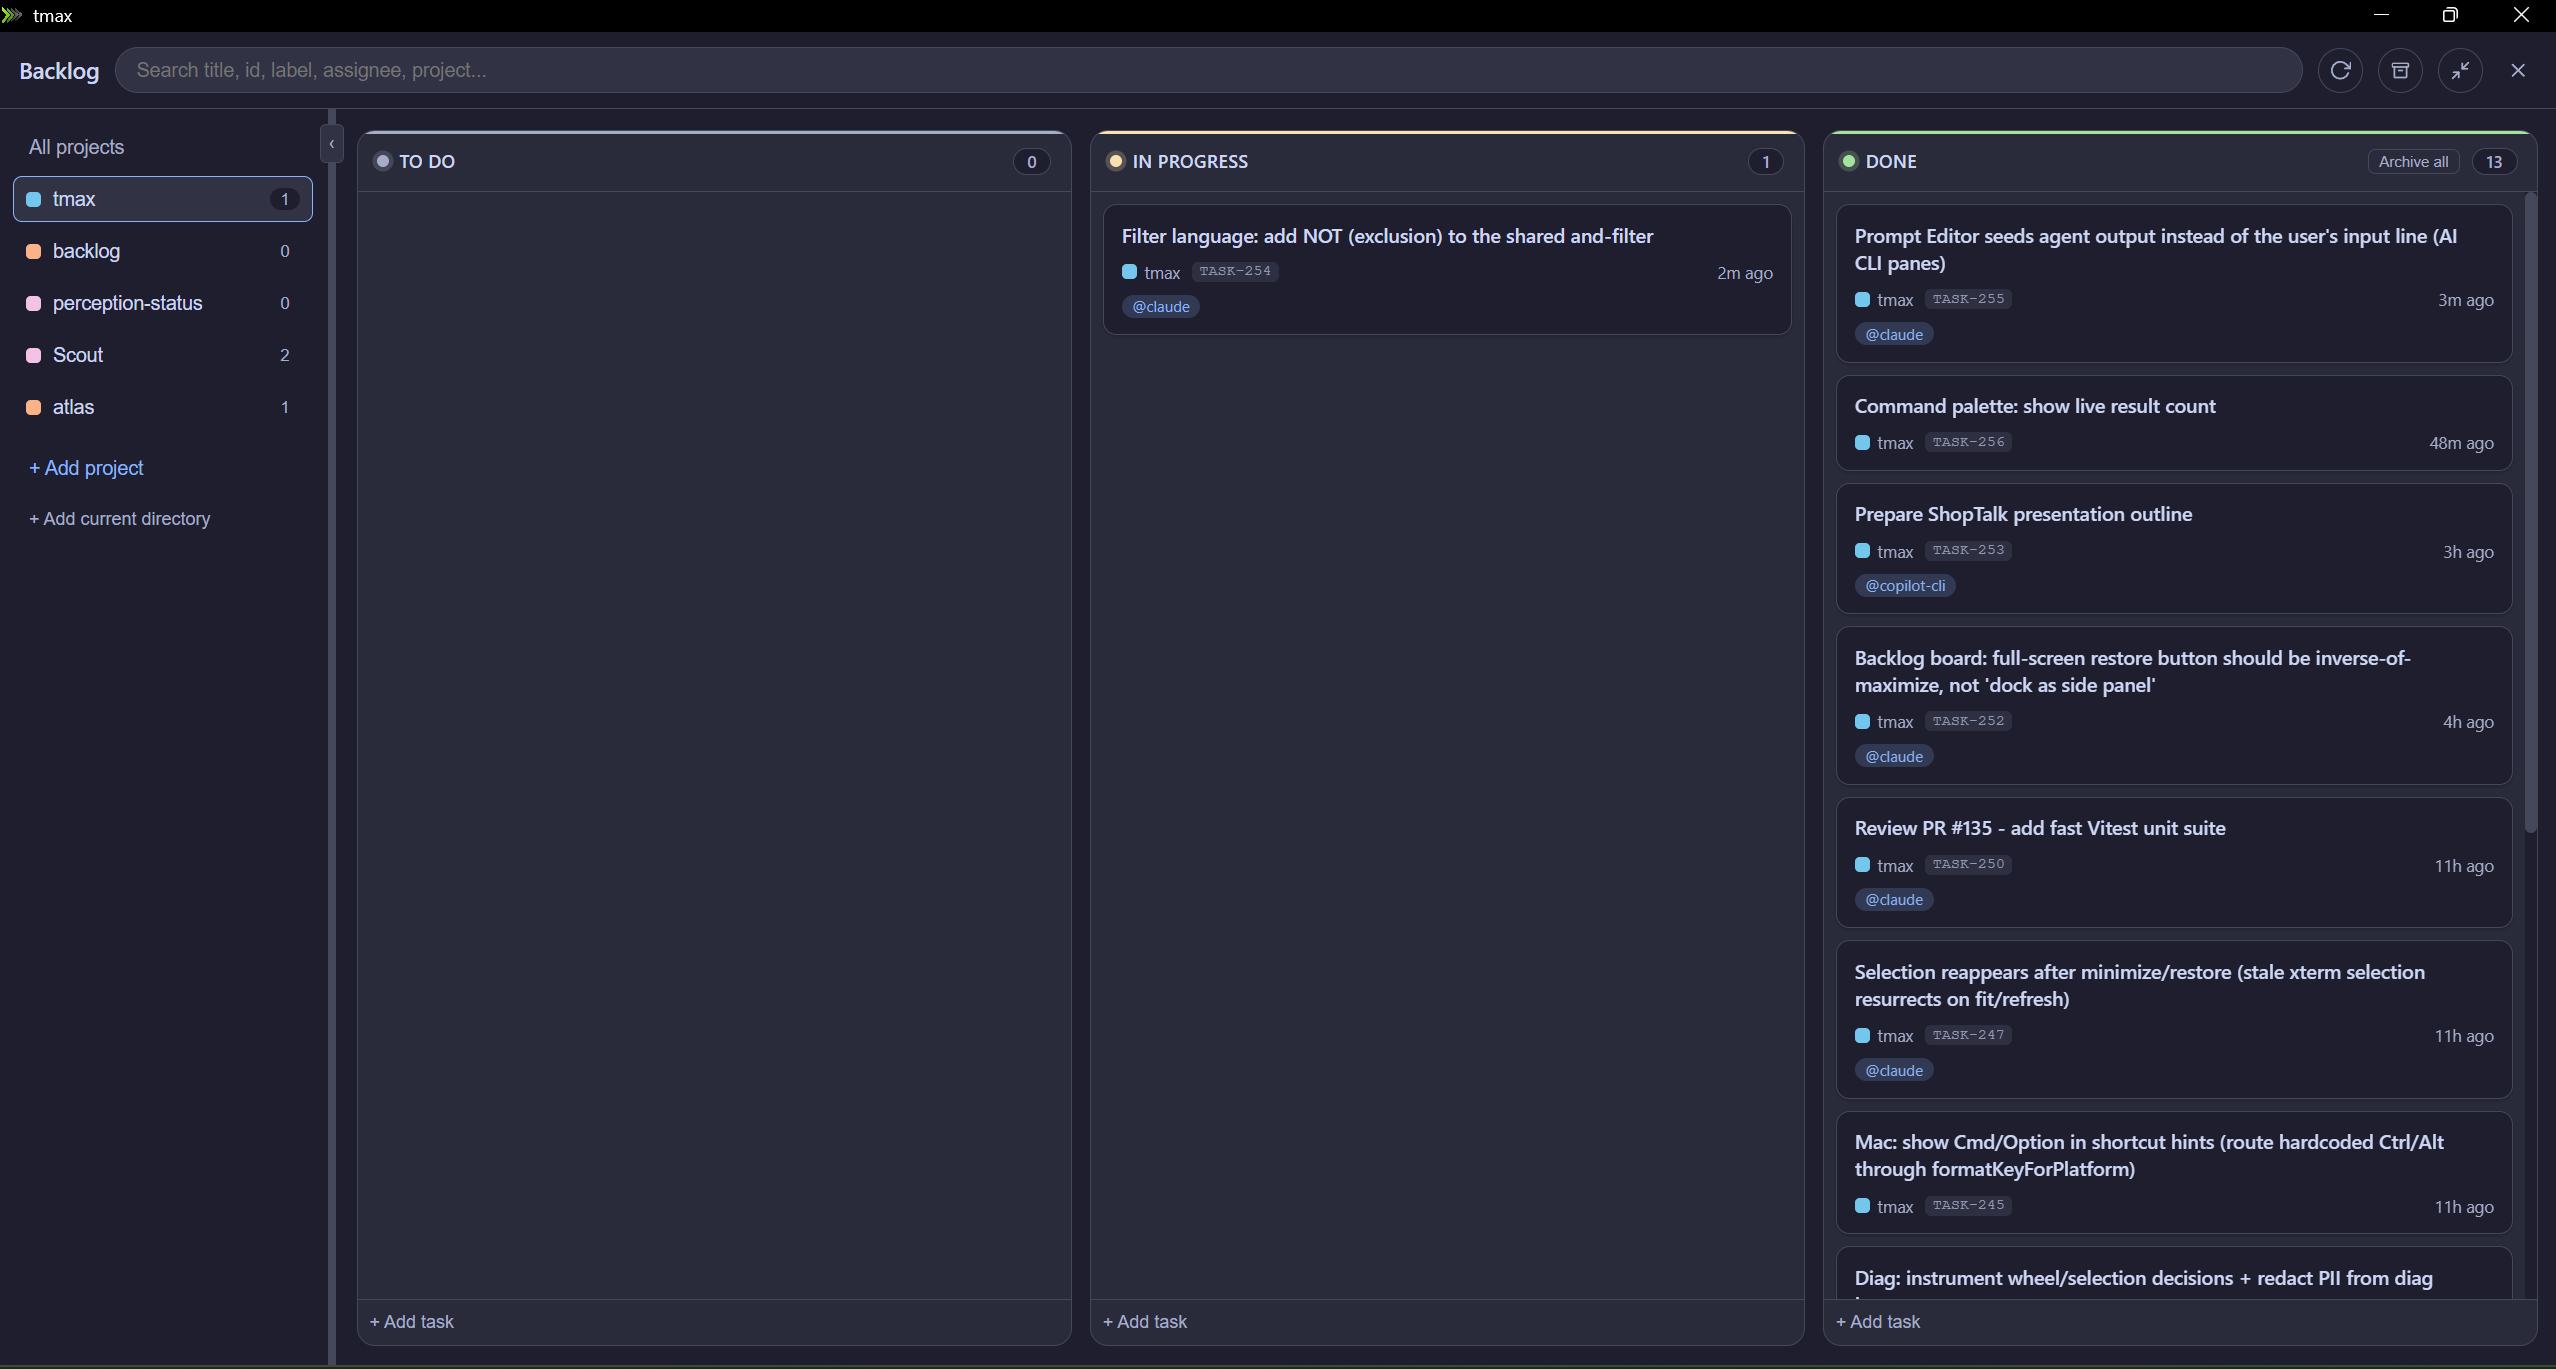
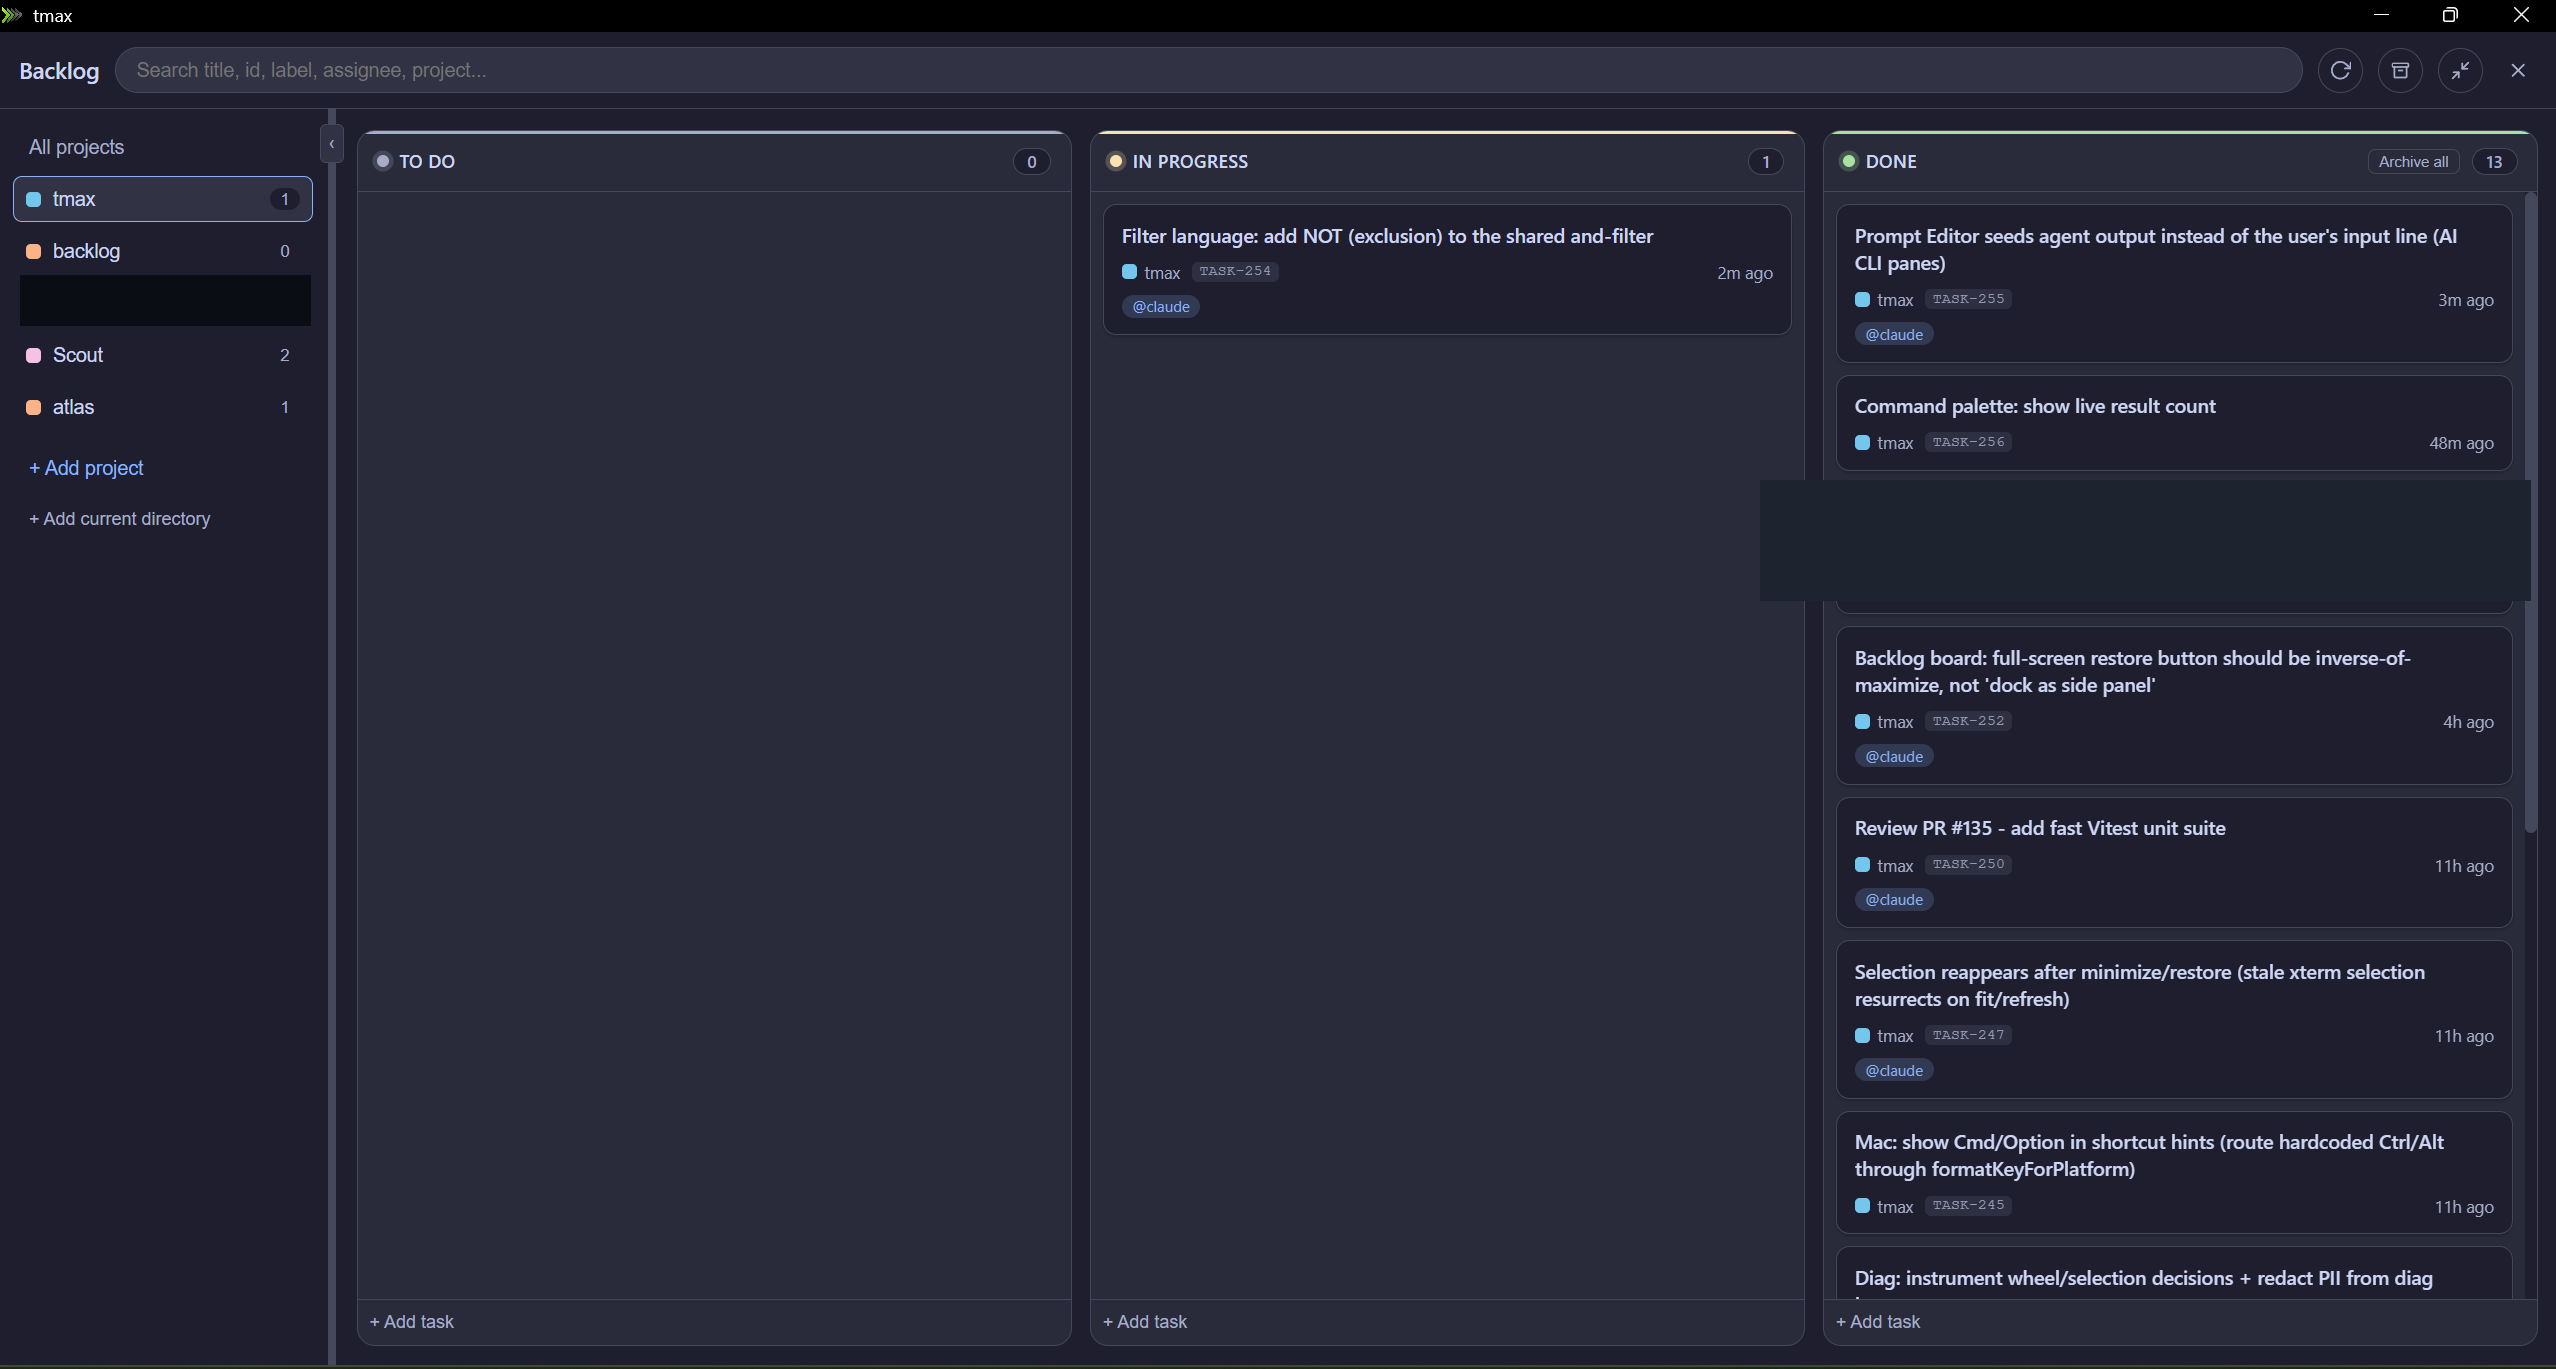
docs: clean up shoptalk for public sharing
- Remove internal project names from backlog screenshot
- Change title from ShopTalk to Overview
- Replace aka.ms link with GitHub Pages URL

Changed region(s): [[0.7109, 0.3682, 0.8654, 0.4602], [0.0, 0.1841, 0.1236, 0.2454], [0.9581, 0.3682, 1.0, 0.4295]]

diff --git a/docs/shoptalk/index.html b/docs/shoptalk/index.html
@@ -3,7 +3,7 @@
 <meta charset="UTF-8">
 <meta name="viewport" content="width=device-width, initial-scale=1.0">
 <link rel="icon" href="tmax-favicon.ico" type="image/x-icon">
-<title>tmax ShopTalk</title>
+<title>tmax Overview</title>
 <style>
 :root {
   --bg: #000000;
@@ -983,7 +983,7 @@ body::after {
         <span class="title">~</span>
       </div>
       <div class="terminal-body">
-        <div class="line"><span style="color:var(--text-dim)">&gt; </span>open <a href="https://aka.ms/tmax" target="_blank" style="color:var(--green);text-decoration:underline;">https://aka.ms/tmax</a></div>
+        <div class="line"><span style="color:var(--text-dim)">&gt; </span>open <a href="https://inbarr.github.io/tmax/" target="_blank" style="color:var(--green);text-decoration:underline;">https://inbarr.github.io/tmax/</a></div>
         <div class="line"></div>
         <div class="line"><span class="key">code_signed:</span> <span class="val">Azure Trusted Signing</span></div>
         <div class="line"><span class="key">license:</span> <span class="val">MIT</span></div>